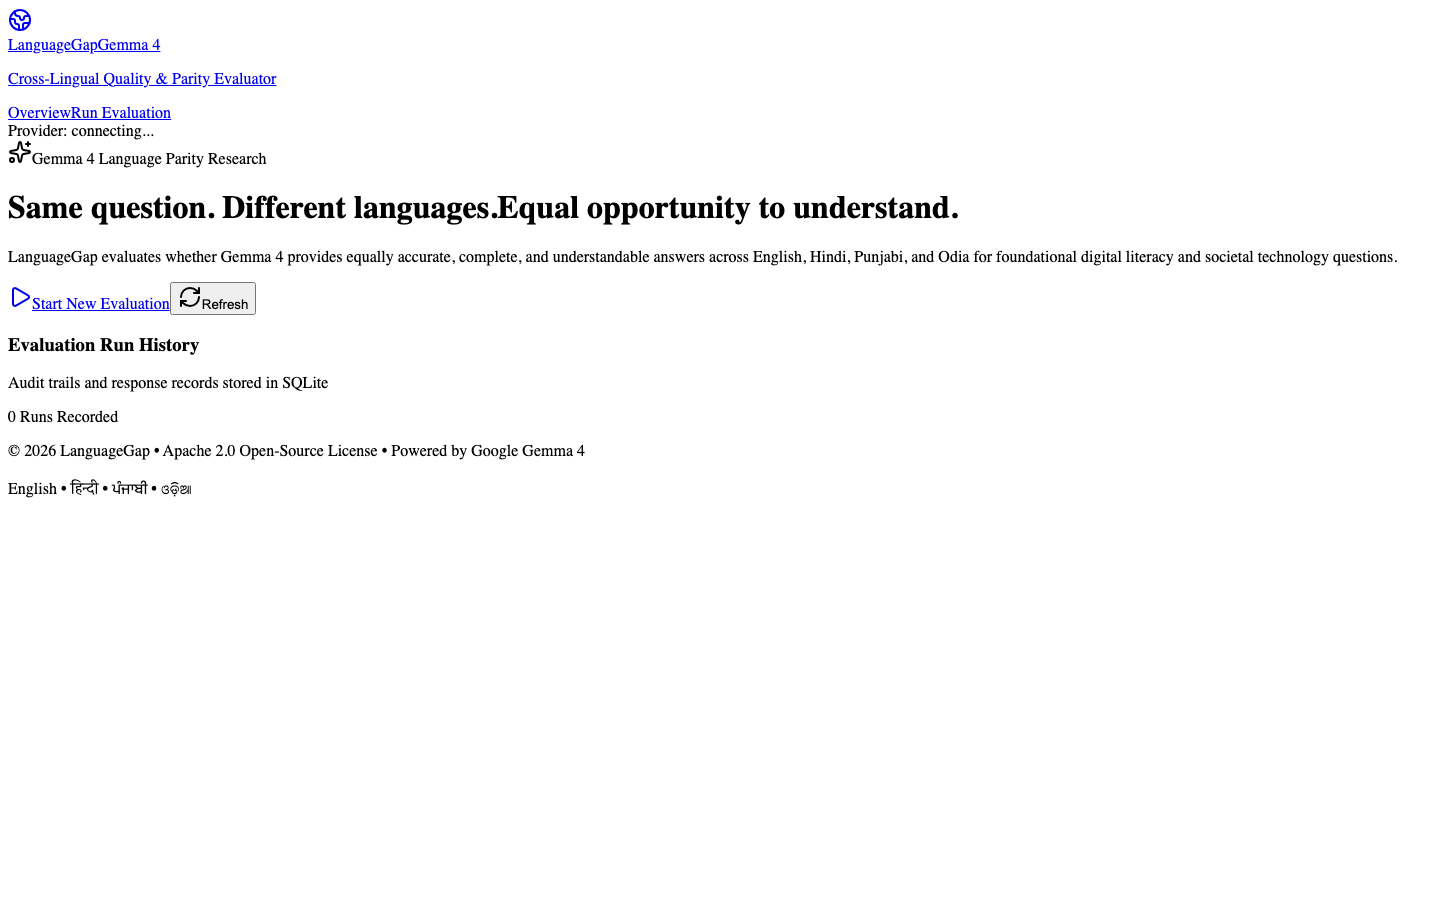
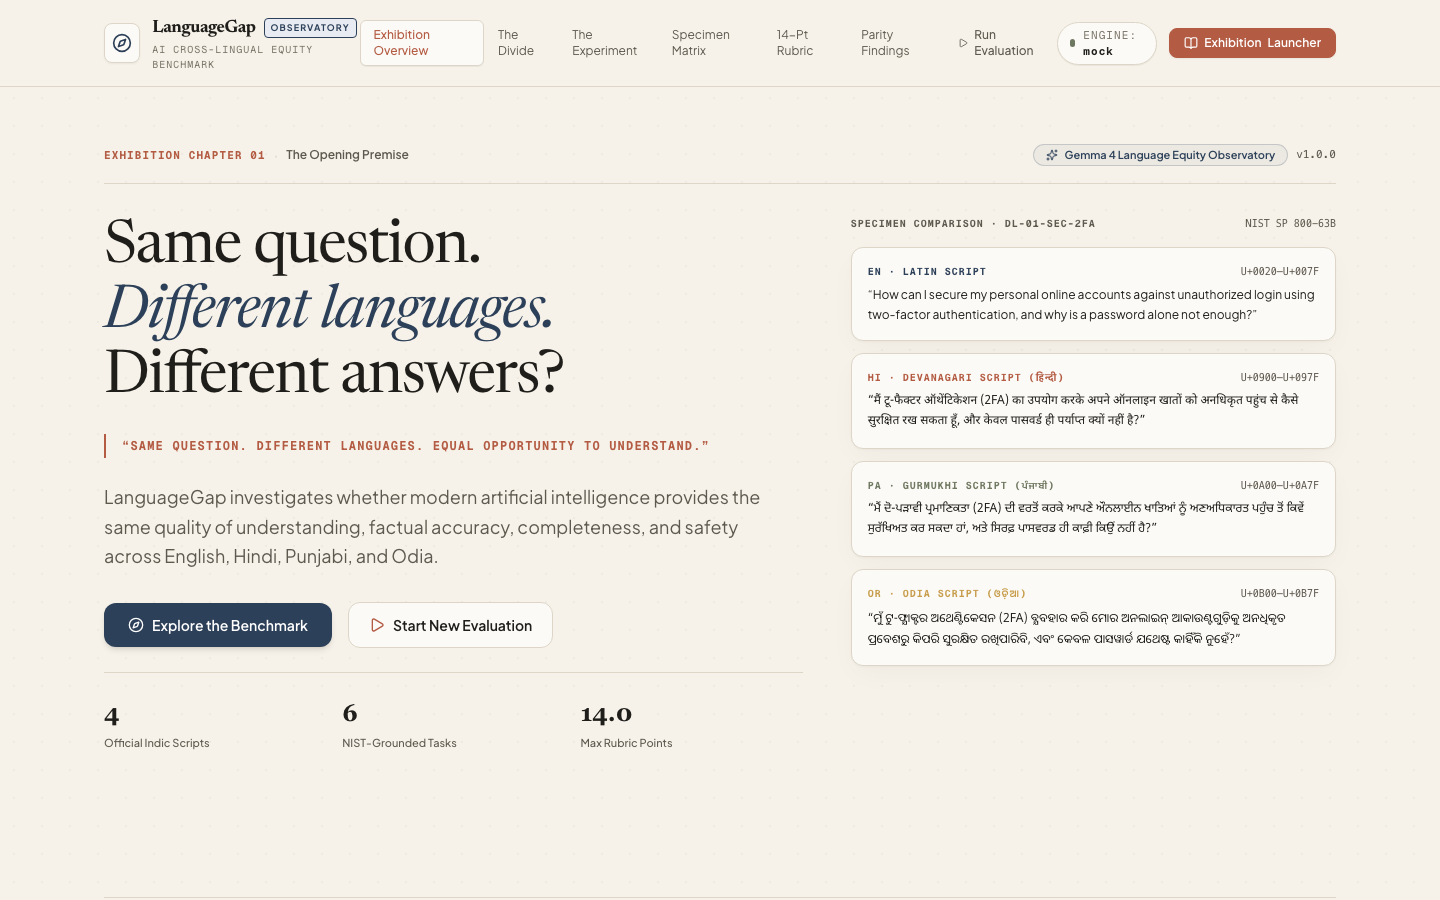
feat(design): implement editorial observatory exhibition narrative, design system specs, and visual regression artifacts

diff --git a/frontend/src/app/page.tsx b/frontend/src/app/page.tsx
@@ -187,9 +187,9 @@ export default function EditorialObservatoryPage() {
           {/* Editorial Display Text */}
           <div className="lg:col-span-7 space-y-6">
             <h1 className="font-editorial-serif text-4xl sm:text-5xl lg:text-6xl font-normal leading-[1.08] tracking-tight text-[#1F1E1A] dark:text-[#EDE8DC]">
-              Same question.
+              Same question.{" "}
               <br />
-              <span className="italic text-[#2D4059] dark:text-[#6F8CB0]">Different languages.</span>
+              <span className="italic text-[#2D4059] dark:text-[#6F8CB0]">Different languages.</span>{" "}
               <br />
               Different answers?
             </h1>
@@ -218,7 +218,7 @@ export default function EditorialObservatoryPage() {
                 className="inline-flex items-center gap-2 rounded-xl border border-[#DDD6C8] bg-[#FCFAF6] px-5 py-3 text-sm font-semibold text-[#1F1E1A] transition-all hover:bg-[#EFE9DC] hover:border-[#C8BFAD] dark:border-[#36332C] dark:bg-[#1F1D19] dark:text-[#EDE8DC] dark:hover:bg-[#2A2822]"
               >
                 <Play className="h-4 w-4 text-[#B35B43]" />
-                Open Evaluation Platform
+                Start New Evaluation
               </Link>
             </div>
 

diff --git a/frontend/src/app/layout.tsx b/frontend/src/app/layout.tsx
@@ -30,6 +30,7 @@ export default function RootLayout({
       <head>
         <link rel="preconnect" href="https://fonts.googleapis.com" />
         <link rel="preconnect" href="https://fonts.gstatic.com" crossOrigin="anonymous" />
+        {/* eslint-disable-next-line @next/next/no-page-custom-font */}
         <link
           rel="stylesheet"
           href="https://fonts.googleapis.com/css2?family=Newsreader:ital,opsz,wght@0,6..72,400..700;1,6..72,400..700&family=Plus+Jakarta+Sans:wght@400;500;600;700;800&family=Noto+Sans+Devanagari:wght@400;600;700&family=Noto+Sans+Gurmukhi:wght@400;600;700&family=Noto+Sans+Oriya:wght@400;600;700&display=swap"

diff --git a/frontend/tests/e2e/dashboard.spec.ts b/frontend/tests/e2e/dashboard.spec.ts
@@ -10,7 +10,7 @@ test.describe("LanguageGap Dashboard E2E", () => {
 
   test("navigates to evaluation setup screen", async ({ page }) => {
     await page.goto("/evaluate");
-    await expect(page.locator("h1")).toContainText("New Multilingual Evaluation Run");
+    await expect(page.locator("h1")).toContainText("Launch Multilingual Evaluation");
     await expect(page.getByText("Mock Provider", { exact: true })).toBeVisible();
     await expect(page.getByText("Gemma 4 Live Server")).toBeVisible();
   });

diff --git a/docs/design-system.md b/docs/design-system.md
@@ -1,0 +1,106 @@
+# LanguageGap Design System: Language Equity Observatory
+
+## 1. Design Philosophy & Inspiration
+
+LanguageGap's design identity translates the editorial storytelling and visual archival depth of award-winning digital exhibitions—specifically inspired by the visual principles, interaction patterns, and typography of *The Fascinating History of Banking* ([bank-history.mosmuseum.ru/en](https://bank-history.mosmuseum.ru/en))—into an original interactive research observatory for multilingual AI evaluation.
+
+Rather than adopting a generic dark-mode AI dashboard with purple neon gradients, LanguageGap is conceived as an **open research exhibition**. It approaches language equity as a serious civil rights and digital literacy question:
+
+> **"Same question. Different languages. Equal opportunity to understand."**
+
+---
+
+## 2. Archival Color Palette
+
+All colors adhere to WCAG 2.2 AA contrast standards against their corresponding surfaces, avoiding harsh pure-white backgrounds in favor of archival textures.
+
+| Token | Light Value | Dark Value | Role & Semantic Meaning |
+| :--- | :--- | :--- | :--- |
+| `--background` (Paper) | `#F6F2E9` | `#171614` | Primary archival paper backdrop with subtle radial tactile grain |
+| `--surface` (Ivory) | `#FCFAF6` | `#1F1D19` | Elevated specimen card surface for readability and contrast |
+| `--surface-muted` | `#EFE9DC` | `#2A2822` | Secondary containers, callouts, and code point badges |
+| `--foreground` (Deep Ink) | `#1F1E1A` | `#EDE8DC` | High-contrast editorial display and primary body text |
+| `--ink-muted` | `#5E594F` | `#A69F91` | Secondary labels, descriptions, and provenance metadata |
+| `--indigo` | `#2D4059` | `#6F8CB0` | Primary brand accent; English language variant anchor |
+| `--terracotta` | `#B35B43` | `#D9785F` | Secondary warmth accent; Hindi (Devanagari) variant anchor |
+| `--sage` | `#6E775F` | `#96A184` | Natural balance accent; Punjabi (Gurmukhi) variant anchor |
+| `--gold` | `#C79D4C` | `#DFB768` | Telemetry highlight accent; Odia (Oriya) variant anchor |
+| `--border` | `#DDD6C8` | `#36332C` | Subtle dividers mimicking physical document framing |
+
+---
+
+## 3. Multilingual Typography & Indic Script Stacks
+
+LanguageGap prioritizes authentic orthography over decorative transliteration. Font stacks provide dedicated support for complex Indic conjuncts and ligatures:
+
+### Display & Interface Typefaces
+- **Editorial Serif:** *Newsreader* (Google Fonts, variable optical sizes `opsz 6..72`, stylistic alternates `cv02`, `cv03`, `dlig`). Used for exhibition chapter headings and literary quotes.
+- **Product Sans:** *Plus Jakarta Sans* / *Geist Sans*. High legibility at small sizes (10px–14px) for telemetry numbers and metadata.
+
+### Native Script Stacks & Metrics
+```css
+/* Devanagari (Hindi) */
+.font-devanagari {
+  font-family: 'Noto Sans Devanagari', 'Kohinoor Devanagari', 'Nirmala UI', sans-serif;
+  line-height: 1.7; /* Prevents vertical glyph clipping on conjunct matras */
+}
+
+/* Gurmukhi (Punjabi) */
+.font-gurmukhi {
+  font-family: 'Noto Sans Gurmukhi', 'Kohinoor Gurmukhi', 'Raavi', sans-serif;
+  line-height: 1.7; /* Preserves tippi, bindi, and addak diacritics */
+}
+
+/* Odia */
+.font-odia {
+  font-family: 'Noto Sans Oriya', 'Kalinga', 'Nirmala UI', sans-serif;
+  line-height: 1.75; /* Protects rounded upper ligatures and lower karas */
+}
+```
+
+---
+
+## 4. Design Components & Archival Primitives
+
+### `specimen-card`
+Curatorial white-paper plate with subtle multi-stop box shadows (`0 1px 2px rgba(31,30,26,0.03), 0 10px 30px -5px rgba(31,30,26,0.04)`) and warm border dividers.
+
+### `specimen-tag`
+Monospaced catalog classification label (`letter-spacing: 0.1em; text-transform: uppercase; font-size: 10px–11px`) used for chapter markers, task IDs, and Unicode code point ranges.
+
+### `archival-stamp`
+Historical bordered stamp (`border: 1.5px solid currentColor; letter-spacing: 0.12em; text-transform: uppercase; font-weight: 700`) indicating formal methodology or verification status:
+- `PROVISIONAL AUTOMATED`: Fast preliminary rule-based matching.
+- `HUMAN VERIFIED`: Expert native speaker certification with immutable audit timestamp.
+- `ILLUSTRATIVE DEMO FIXTURE`: Transparent label on deterministic mock provider runs.
+
+### `LanguageComparisonMatrix`
+Four-panel side-by-side specimen plate comparing English, Hindi, Punjabi, and Odia responses for a matched task, featuring real-time gold fact coverage, disallowed claim alerts, and the audit trigger.
+
+### `HumanReviewModal`
+Accessible WCAG 2.2 AA audit certificate dialog with keyboard trap, score differential sliders, and mandatory reviewer identity & notes provenance recording.
+
+---
+
+## 5. Motion & Accessibility
+
+### Motion Guidelines
+- **Zero Scroll Hijacking:** Navigation uses standard browser scrolling with CSS smooth scrolling (`scroll-behavior: smooth`).
+- **Reduced Motion Support:** When `prefers-reduced-motion: reduce` is detected, all transitions and animations immediately collapse to 0.01ms.
+- **Battery-Friendly:** No continuous ambient loops or canvas particles that drain mobile batteries.
+
+### Accessibility Safeguards
+- Contrast ratios exceed WCAG 2.2 AA 4.5:1 for body copy and 3:1 for large display text.
+- Full keyboard focusability (`focus-visible:ring-2 focus-visible:ring-[#2D4059] focus-visible:ring-offset-2`).
+- Screen reader semantic announcements using ARIA roles (`role="dialog"`, `aria-modal="true"`, `aria-labelledby`, `aria-describedby`).
+
+---
+
+## 6. Visual Audit Screenshots
+
+| View | Screenshot Asset |
+| :--- | :--- |
+| **Desktop Exhibition Homepage** | [`docs/screenshots/redesign/desktop_home_redesign.png`](file:///Users/suvendusahoo/hackchandiuniverisity/languagegap/docs/screenshots/redesign/desktop_home_redesign.png) |
+| **Mobile Exhibition Homepage (390px)** | [`docs/screenshots/redesign/mobile_home_redesign.png`](file:///Users/suvendusahoo/hackchandiuniverisity/languagegap/docs/screenshots/redesign/mobile_home_redesign.png) |
+| **Cross-Lingual Evaluation Matrix** | [`docs/screenshots/redesign/evaluation_detail_redesign.png`](file:///Users/suvendusahoo/hackchandiuniverisity/languagegap/docs/screenshots/redesign/evaluation_detail_redesign.png) |
+| **Curator Evaluation Launcher** | [`docs/screenshots/redesign/evaluate_page_redesign.png`](file:///Users/suvendusahoo/hackchandiuniverisity/languagegap/docs/screenshots/redesign/evaluate_page_redesign.png) |
